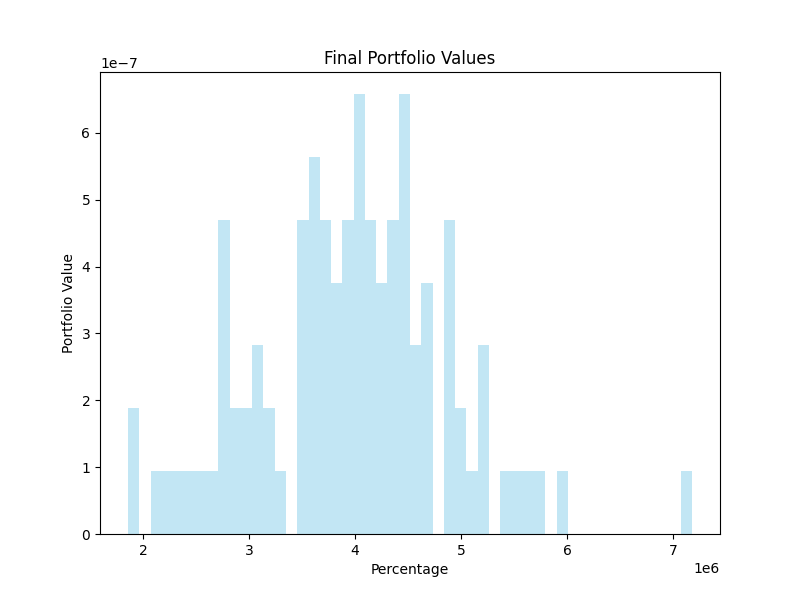
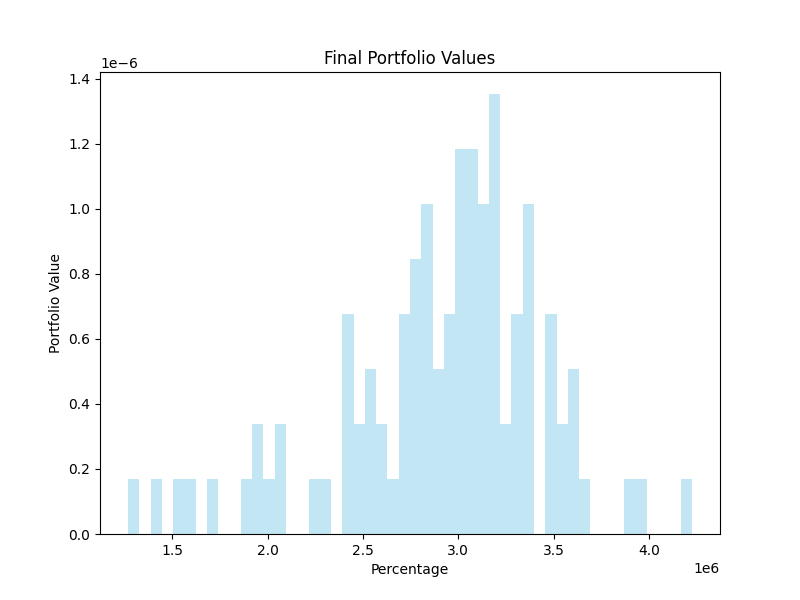
change influence approach and update options for risk stabilization

diff --git a/Code/simulation.py b/Code/simulation.py
@@ -15,17 +15,17 @@ from stock import Stock
 
 
 # -------------------------------------------------------------------------------------------------------------------- #
-# Parameters for simulation
+# Parameters for simulation - using 10000 as the normalizing value for risk percentile
 
 N = 100  # number of brokers
-neighbor_influence = 0.2  # percent of risk assessment determined by neighbors
+neighbor_influence = 0.03  # initial percent of risk assessment provided by each neighbor
 adjust_influence = True
 seed_money = 1_000_000
 trials = 1  # not really using this since just doing a single run currently since its such a long runtime
 start = "01/01/2003"  # date to start simulation
 end = "12/31/2012"  # date to stop simulation
 input_data_filename = 'data/ticker_info_400_all_catagories.csv'
-figure_file_directory = 'figures'
+figure_file_directory = 'figures2003-2012_updated'
 # -------------------------------------------------------------------------------------------------------------------- #
 
 
@@ -96,7 +96,9 @@ for trial in range(trials):
     money_series = defaultdict(lambda: list())
 
     # list of brokers with increasing preferred levels of risk
-    brokers = [Broker(i, seed_money, (i+1)/N*9999, neighbor_influence, adjust_influence) for i in range(N)]
+    brokers = [Broker(i, seed_money, (i+1)/N*9999, neighbor_influence, adjust_influence, stop_at_stable=False) for i in range(N)]
+    # version with limited risk types to focus on influence
+    # brokers = [Broker(i, seed_money, random.sample([3333,6666,9999],1)[0], neighbor_influence, adjust_influence, stop_at_stable=False) for i in range(N)]
 
     # @INFLUENCE THIS BLOCK ADDRESSES THE NEIGHBOR WEIGHTING AND SETUP
     # Generate the number of friends per person with power distribution and populate those friend relationships
@@ -112,8 +114,9 @@ for trial in range(trials):
                 brokers[neighbor].in_neighbors[i] = 1 / friend_count_dist[i]  # not a clean way to do this but it'll work hopefully
 
     for b in brokers:
+        b.neighbor_weight = neighbor_influence * len(b.in_neighbors)
         for neighbor in b.in_neighbors:
-            b.in_neighbors[neighbor] = 1 / len(b.in_neighbors)
+            b.in_neighbors[neighbor] = neighbor_influence
 
     # display the network created
     # nx.draw(broker_network, with_labels=True, font_color='white', node_shape='s')
@@ -167,7 +170,7 @@ for trial in range(trials):
                 prev = time()
 
         # add dividend
-        if date.day == 1 and (date.month == 3 or date.month == 6 or date.month == 9 or date.month == 12):
+        if date.day == 1 and (date.month == 12):
             for broker in brokers:
                 for ticker in stocks:
                     broker.money += stocks[ticker].dividend_ratio
@@ -214,7 +217,7 @@ for trial in range(trials):
             unique_count += 1 if b.portfolio[p] > 0 else 0
         # print(b.portfolio)
         num_stocks.append(count)
-        dollar_per_stock.append(portfolio_quant/unique_count)
+        dollar_per_stock.append(portfolio_quant/count)
         num_unique_stocks.append(unique_count)
         cash_at_end.append(b.money)
 
@@ -235,19 +238,19 @@ for trial in range(trials):
 
     random_ids = sorted(random.sample(brokers, 10), key=lambda b: b.id)
     plot_times(dates, [broker_statuses[b.id] for b in random_ids], [f'Broker {i.id}' for i in random_ids],
-               'Dates', 'Broker wealth', 'Broker wealth time series', f'timeSeriesJoint.png')
+               'Dates', 'Broker wealth', 'Broker wealth (including portfolio and cash) time series', f'timeSeriesJoint.png')
     plot_times(dates, [broker_risks[b.id] for b in random_ids], [f'Broker {i.id}' for i in random_ids],
                'Dates', 'Broker risk', 'Broker risk time series', f'riskSeriesJoint.png')
     plot_times(dates, [money_series[b.id] for b in random_ids], [f'Broker {i.id}' for i in random_ids],
-               'Dates', 'Broker money', 'Broker money time series', f'moneySeriesJoint.png')
+               'Dates', 'Broker liquid money', 'Broker liquid money time series', f'moneySeriesJoint.png')
 
     random_ids = sorted(random.sample(brokers, 10), key=lambda b: b.id)
     plot_times(dates, [broker_statuses[b.id] for b in random_ids], [f'Broker {i.id}' for i in random_ids],
-               'Dates', 'Broker wealth', 'Broker wealth time series', f'timeSeriesJoint2.png')
+               'Dates', 'Broker wealth', 'Broker wealth (including portfolio and cash) time series', f'timeSeriesJoint2.png')
     plot_times(dates, [broker_risks[b.id] for b in random_ids], [f'Broker {i.id}' for i in random_ids],
                'Dates', 'Broker risk', 'Broker risk time series', f'riskSeriesJoint2.png')
     plot_times(dates, [money_series[b.id] for b in random_ids], [f'Broker {i.id}' for i in random_ids],
-               'Dates', 'Broker money', 'Broker money time series', f'moneySeriesJoint2.png')
+               'Dates', 'Broker liquid money', 'Broker liquid money time series', f'moneySeriesJoint2.png')
 
 
     # plot portfolio risk to portfolio value
@@ -275,17 +278,17 @@ for trial in range(trials):
     plot(num_friends, final_portfolio_values, 'Number of friends', 'Final portfolio value',
          'Final portfolio value to number of friends', 'valueToFriendCount.png')
 
-    # # plot values mid interval
-    # interim_portfolio_values = [broker_statuses[b.id][len(dates)//2] for b in brokers]
-    #
+    # plot values mid interval
+    interim_portfolio_values = [broker_statuses[b.id][len(dates)//2] for b in brokers]
+
     # portfolio_risk = [broker.current_risk for broker in brokers]
-    # plot(portfolio_risk, interim_portfolio_values, 'Portfolio risk', 'Final portfolio value',
-    #      'Interim portfolio values to risk', 'interimRiskToValue.png')
-    #
+    plot(portfolio_risk, interim_portfolio_values, 'Portfolio risk', 'Final portfolio value',
+         'Interim portfolio values to risk', 'interimRiskToValue.png')
+
     # influences = [sum(broker_network.get_edge_data(n, me)['weight'] for (n, me) in broker_network.in_edges(broker.id)) for broker in brokers]
-    # plot(influences, interim_portfolio_values, 'Influence summed inputs', 'Final portfolio value',
-    #      'Interim portfolio value to influence', 'interimValueToInfluence.png')
-    #
+    plot(influences, interim_portfolio_values, 'Influence summed inputs', 'Final portfolio value',
+         'Interim portfolio value to influence', 'interimValueToInfluence.png')
+
     # num_friends = [len(broker_network.in_edges(broker.id)) for broker in brokers]
-    # plot(num_friends, interim_portfolio_values, 'Number of friends', 'Final portfolio value',
-    #      'Interim portfolio value to number of friends', 'interimValueToFriendCount.png')
+    plot(num_friends, interim_portfolio_values, 'Number of friends', 'Final portfolio value',
+         'Interim portfolio value to number of friends', 'interimValueToFriendCount.png')

diff --git a/Code/broker.py b/Code/broker.py
@@ -7,13 +7,15 @@ import numpy as np
 
 
 class Broker:
-    def __init__(self, id: int, initial_money: float, risk_minimum: float = 0, neighbor_weight: float = 0, shift_influence: bool = False):
+    def __init__(self, id: int, initial_money: float, risk_minimum: float = 0, neighbor_weight: float = 0, shift_influence: bool = False, stop_at_stable=False):
         self.id = id
         self.money = initial_money
         self.portfolio = collections.defaultdict(lambda: 0)  # stock to quantity dictionary
 
         self.in_neighbors = dict()
-        self.neighbor_weight = neighbor_weight
+        self.neighbor_weight = 0  # number of in neighbors
+        # self.standard_neighbor_weight = neighbor_weight
+        self.previous_status = self.money
 
         self.preferred_risk_minimum = risk_minimum
         self.preferred_risk_maximum = risk_minimum*1.15
@@ -29,6 +31,9 @@ class Broker:
         self.adjust_influence = shift_influence
         self._neighbor_history = collections.defaultdict(lambda: initial_money)  # how do we want to use this?
 
+        self.stop_at_stable = stop_at_stable
+        self.done = False
+
     # buy and sell functionality based on allowed purchase rate, outside influence,
     def update(self, graph, available_stocks, id_to_broker_map, stocks, date):
         # include transaction, update status
@@ -38,7 +43,7 @@ class Broker:
 
         transaction_count = 0
         # while (self.money > 500 or self.preferred_risk_maximum < self.current_risk or random.random() < .2) and transaction_count < 100:
-        while (self.current_risk < self.preferred_risk_minimum or self.current_risk > self.preferred_risk_maximum or random.random() < .45) and transaction_count < 50:
+        while (self.current_risk < self.preferred_risk_minimum or self.current_risk > self.preferred_risk_maximum or random.random() < .45) and transaction_count < 50 and not self.done:
             # is there a better way to choose then randomly selecting higher or lower risk
             # if large gap, pull from back, if small from front half?
             transaction_count += 1
@@ -165,6 +170,10 @@ class Broker:
 
             self.assess_portfolio_risk(stocks, date)
 
+        if self.stop_at_stable and self.preferred_risk_minimum <= self.current_risk <= self.preferred_risk_maximum and not self.done:
+            self.done = True
+            print(f'DONE WITH {self.id}')
+
         # if self.id % 19 == 0:
         #     print(self.id, self.current_risk, self.money)
         # print(transaction_count)
@@ -172,13 +181,21 @@ class Broker:
         # update public status
         # @INFLUENCE
         if self.adjust_influence:
+            self_change = self.get_status(stocks, date) - self.previous_status
             for neighbor in self.in_neighbors:
-                self.in_neighbors[neighbor] += .002 * np.sign(id_to_broker_map[neighbor].get_status(stocks, date) - self._neighbor_history[neighbor])
-                if sum(self.in_neighbors[n] for n in self.in_neighbors) > 1.1:
-                    self.neighbor_weight += .005
-                elif sum(self.in_neighbors[n] for n in self.in_neighbors) < .9:
-                    self.neighbor_weight -= .005
+                n_change = id_to_broker_map[neighbor].get_status(stocks, date) - self._neighbor_history[neighbor]
+
+                self.in_neighbors[neighbor] += .0005 * np.sign(self_change - n_change)
                 self._neighbor_history[neighbor] = id_to_broker_map[neighbor].get_status(stocks, date)
+
+            self.neighbor_weight = sum(self.in_neighbors[n] for n in self.in_neighbors)
+            if self.neighbor_weight > 1.0:
+                print("OVERRAN LIMIT")
+                # normalize
+                for n in self.in_neighbors:
+                    self.in_neighbors[n] /= self.neighbor_weight
+                    self.neighbor_weight = 1.0
+        self.previous_status = self.get_status(stocks, date)
 
     def get_status(self, stocks, date):
         """
